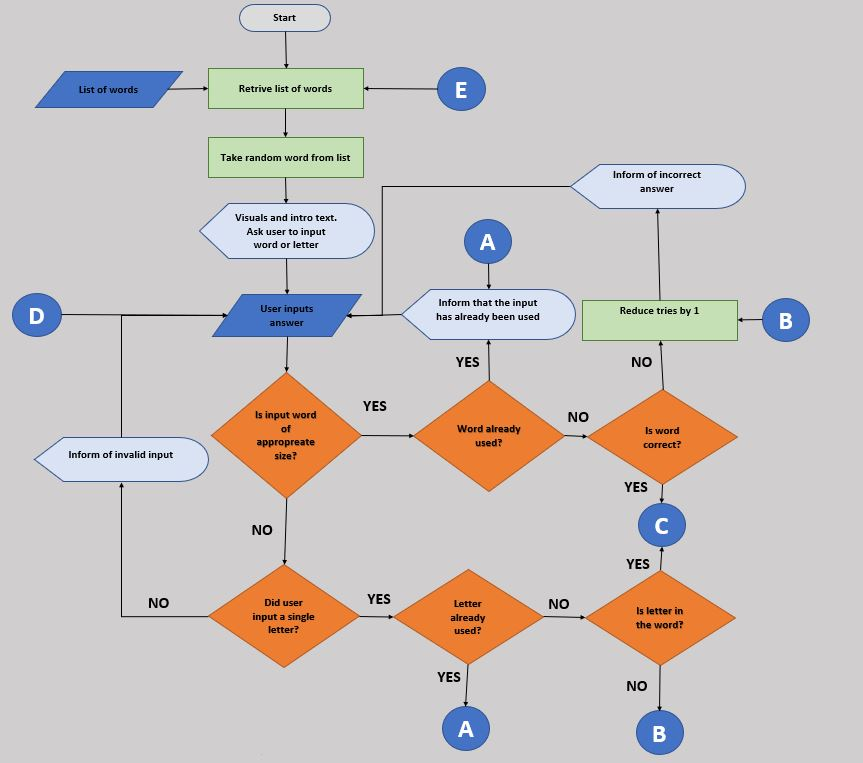
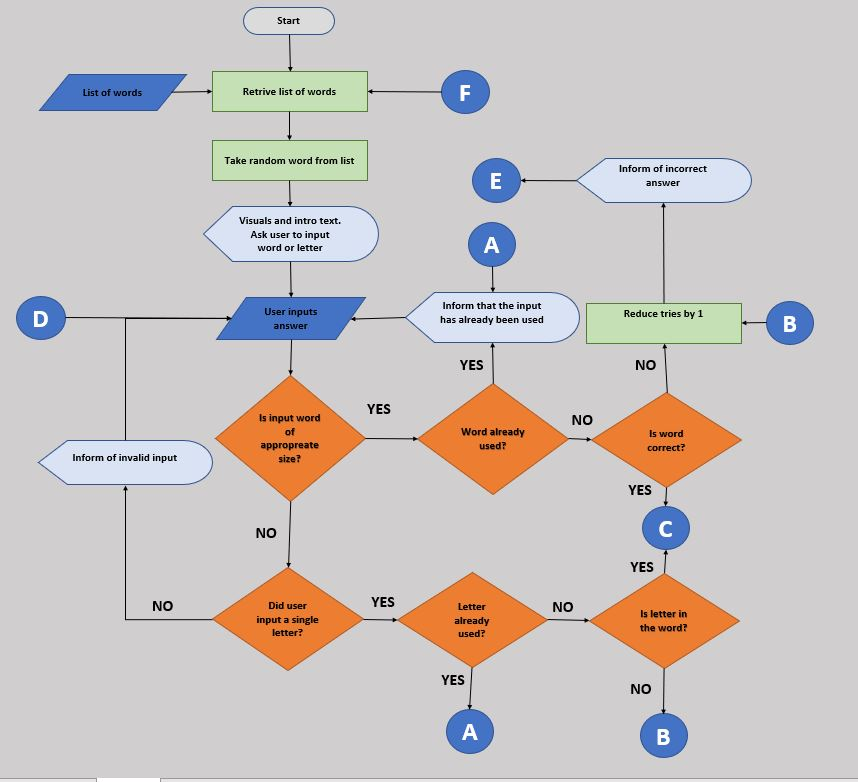
update flowchart and README.md

Changed region(s): [[0.0, 0.0, 1.0, 1.0], [0.4242, 0.2713, 0.4545, 0.3316], [0.0303, 0.1206, 0.0606, 0.1507]]

diff --git a/README.md b/README.md
@@ -1,12 +1,22 @@
 # Hangman
 
-Hangman is a fun game to play on a console. This game lets user guess words and letters of a target word, with a funny hangman visuals. Try and have fun! 
+Hangman is a fun game to play on a console. This game lets users guess the words and letters with a funny hangman visual. Try and have fun! 
 
-
+![cover_image](documentation/images/cover.JPG)
 
 ## Features
 
+### Game flow
 
+The game starts by initiating the code using the main function. Function get_word() retrieves a random word from an imported list of words. After the word has been received, the console introduces the game to the user, displaying a gallows visual and informing the user how many letters are in the target word.
+
+The user enters either a word or a letter. If a user enters a word, the word is checked if all characters are letters and if the number of letters is equal to the target word. If the conditions are satisfied, the word is compared with the target word. If the condition is not satisfied, user is informed that the input is incorrect and prompted to try to input a value again. When the word that meets the If statement conditions is compared with the target word, if the answer is incorrect number of tries is reduce by 1.
+
+
+
+![flowchart_part1](documentation/images/flowchart1.JPG)
+
+![flowchart_part1](documentation/images/flowchart1.JPG)
 
 
 ### Features to implement
